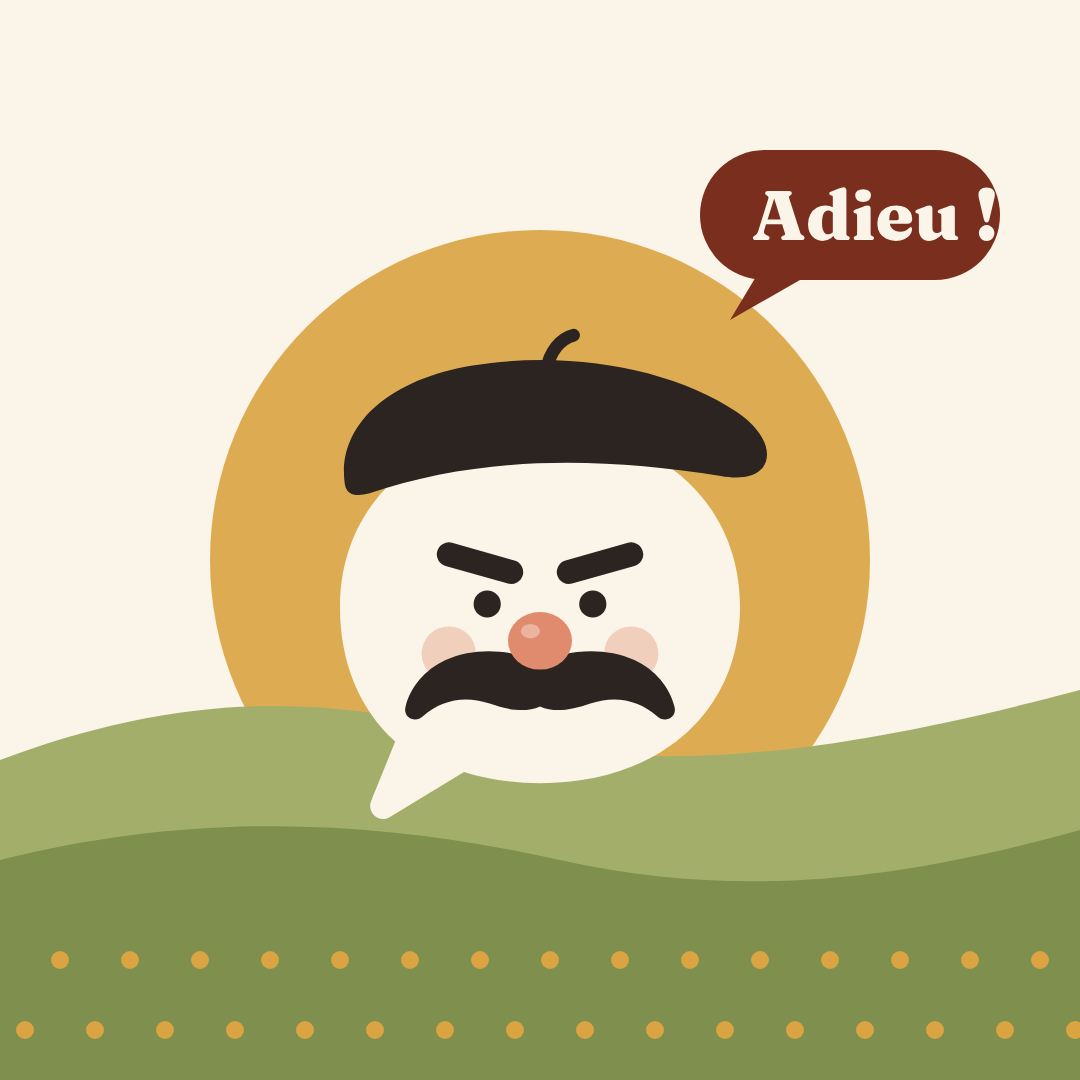
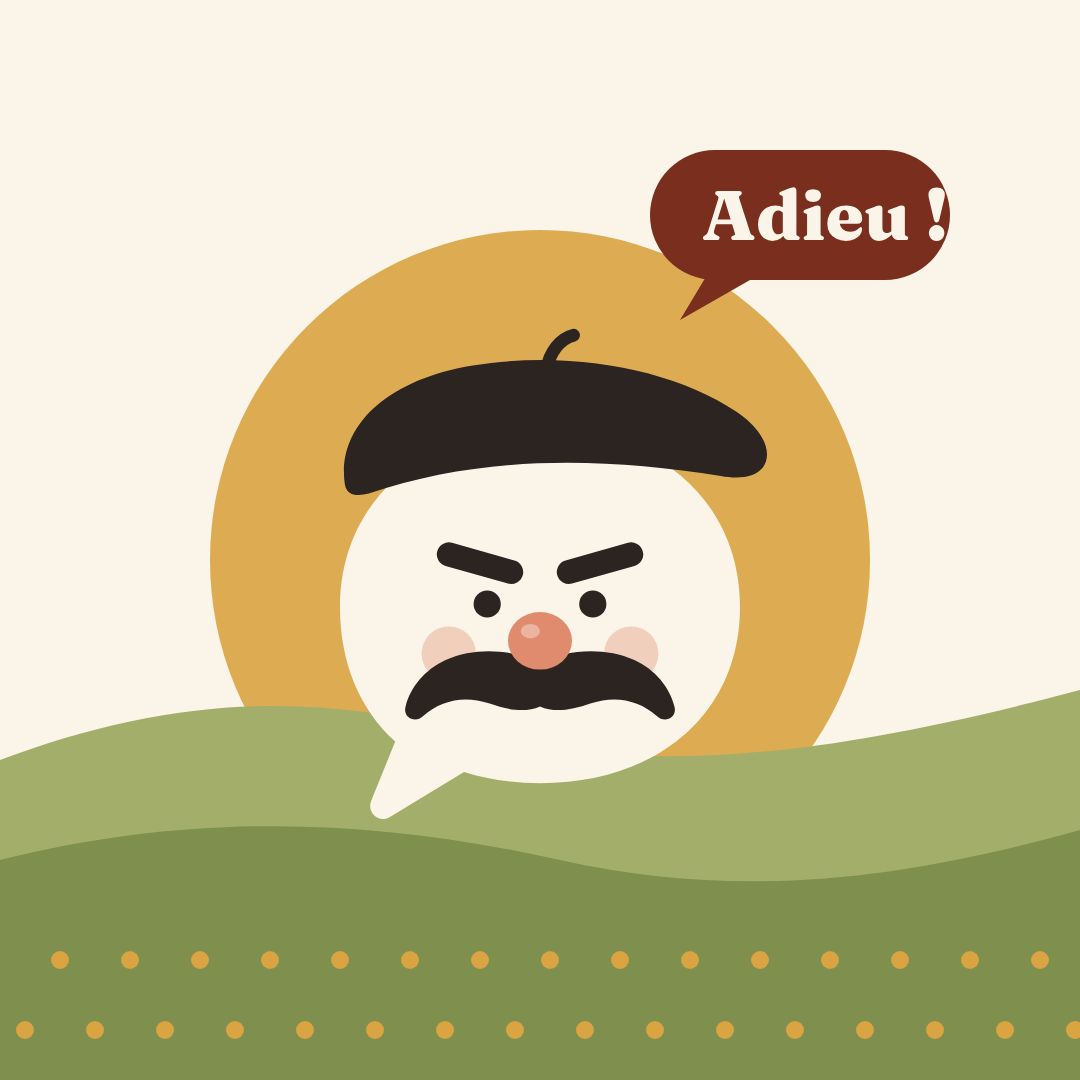
Splash : Michel cadré plus grand, bulle « Adieu ! » recentrée
Claude-Session: https://claude.ai/code/session_01Lx7cuN1dqUcmPtxQ1rMTAE

Changed region(s): [[0.5806, 0.1222, 0.9472, 0.3056]]

diff --git a/app/assets/brand/generer.py b/app/assets/brand/generer.py
@@ -181,7 +181,7 @@ write(
 )
 
 # Écran de démarrage : symbole seul (Expo le pose sur la couleur de fond)
-write("splash.svg", svg(head()))
+write("splash.svg", svg(placer(head(), 512, 548, 1.5)))
 
 # --- Illustrations d'accueil (3 écrans), format 1080 x 1080, paysage gersois ---
 COLLINES = (
@@ -215,7 +215,7 @@ main = (
     f'<path d="M-40 -20h-20" stroke="{ENCRE}" stroke-width="14" stroke-linecap="round"/></g>'
 )
 bulle_adieu = (
-    f'<g transform="translate(700 150)"><rect x="0" y="0" width="300" height="130" rx="65" fill="{BRIQUE}"/>'
+    f'<g transform="translate(650 150)"><rect x="0" y="0" width="300" height="130" rx="65" fill="{BRIQUE}"/>'
     f'<path d="M60 120l-30 50 70-40z" fill="{BRIQUE}"/>'
     f'<path fill="{CREME}" d="{text_path("Adieu !", 70, 52, 90)[0]}"/></g>'
 )
